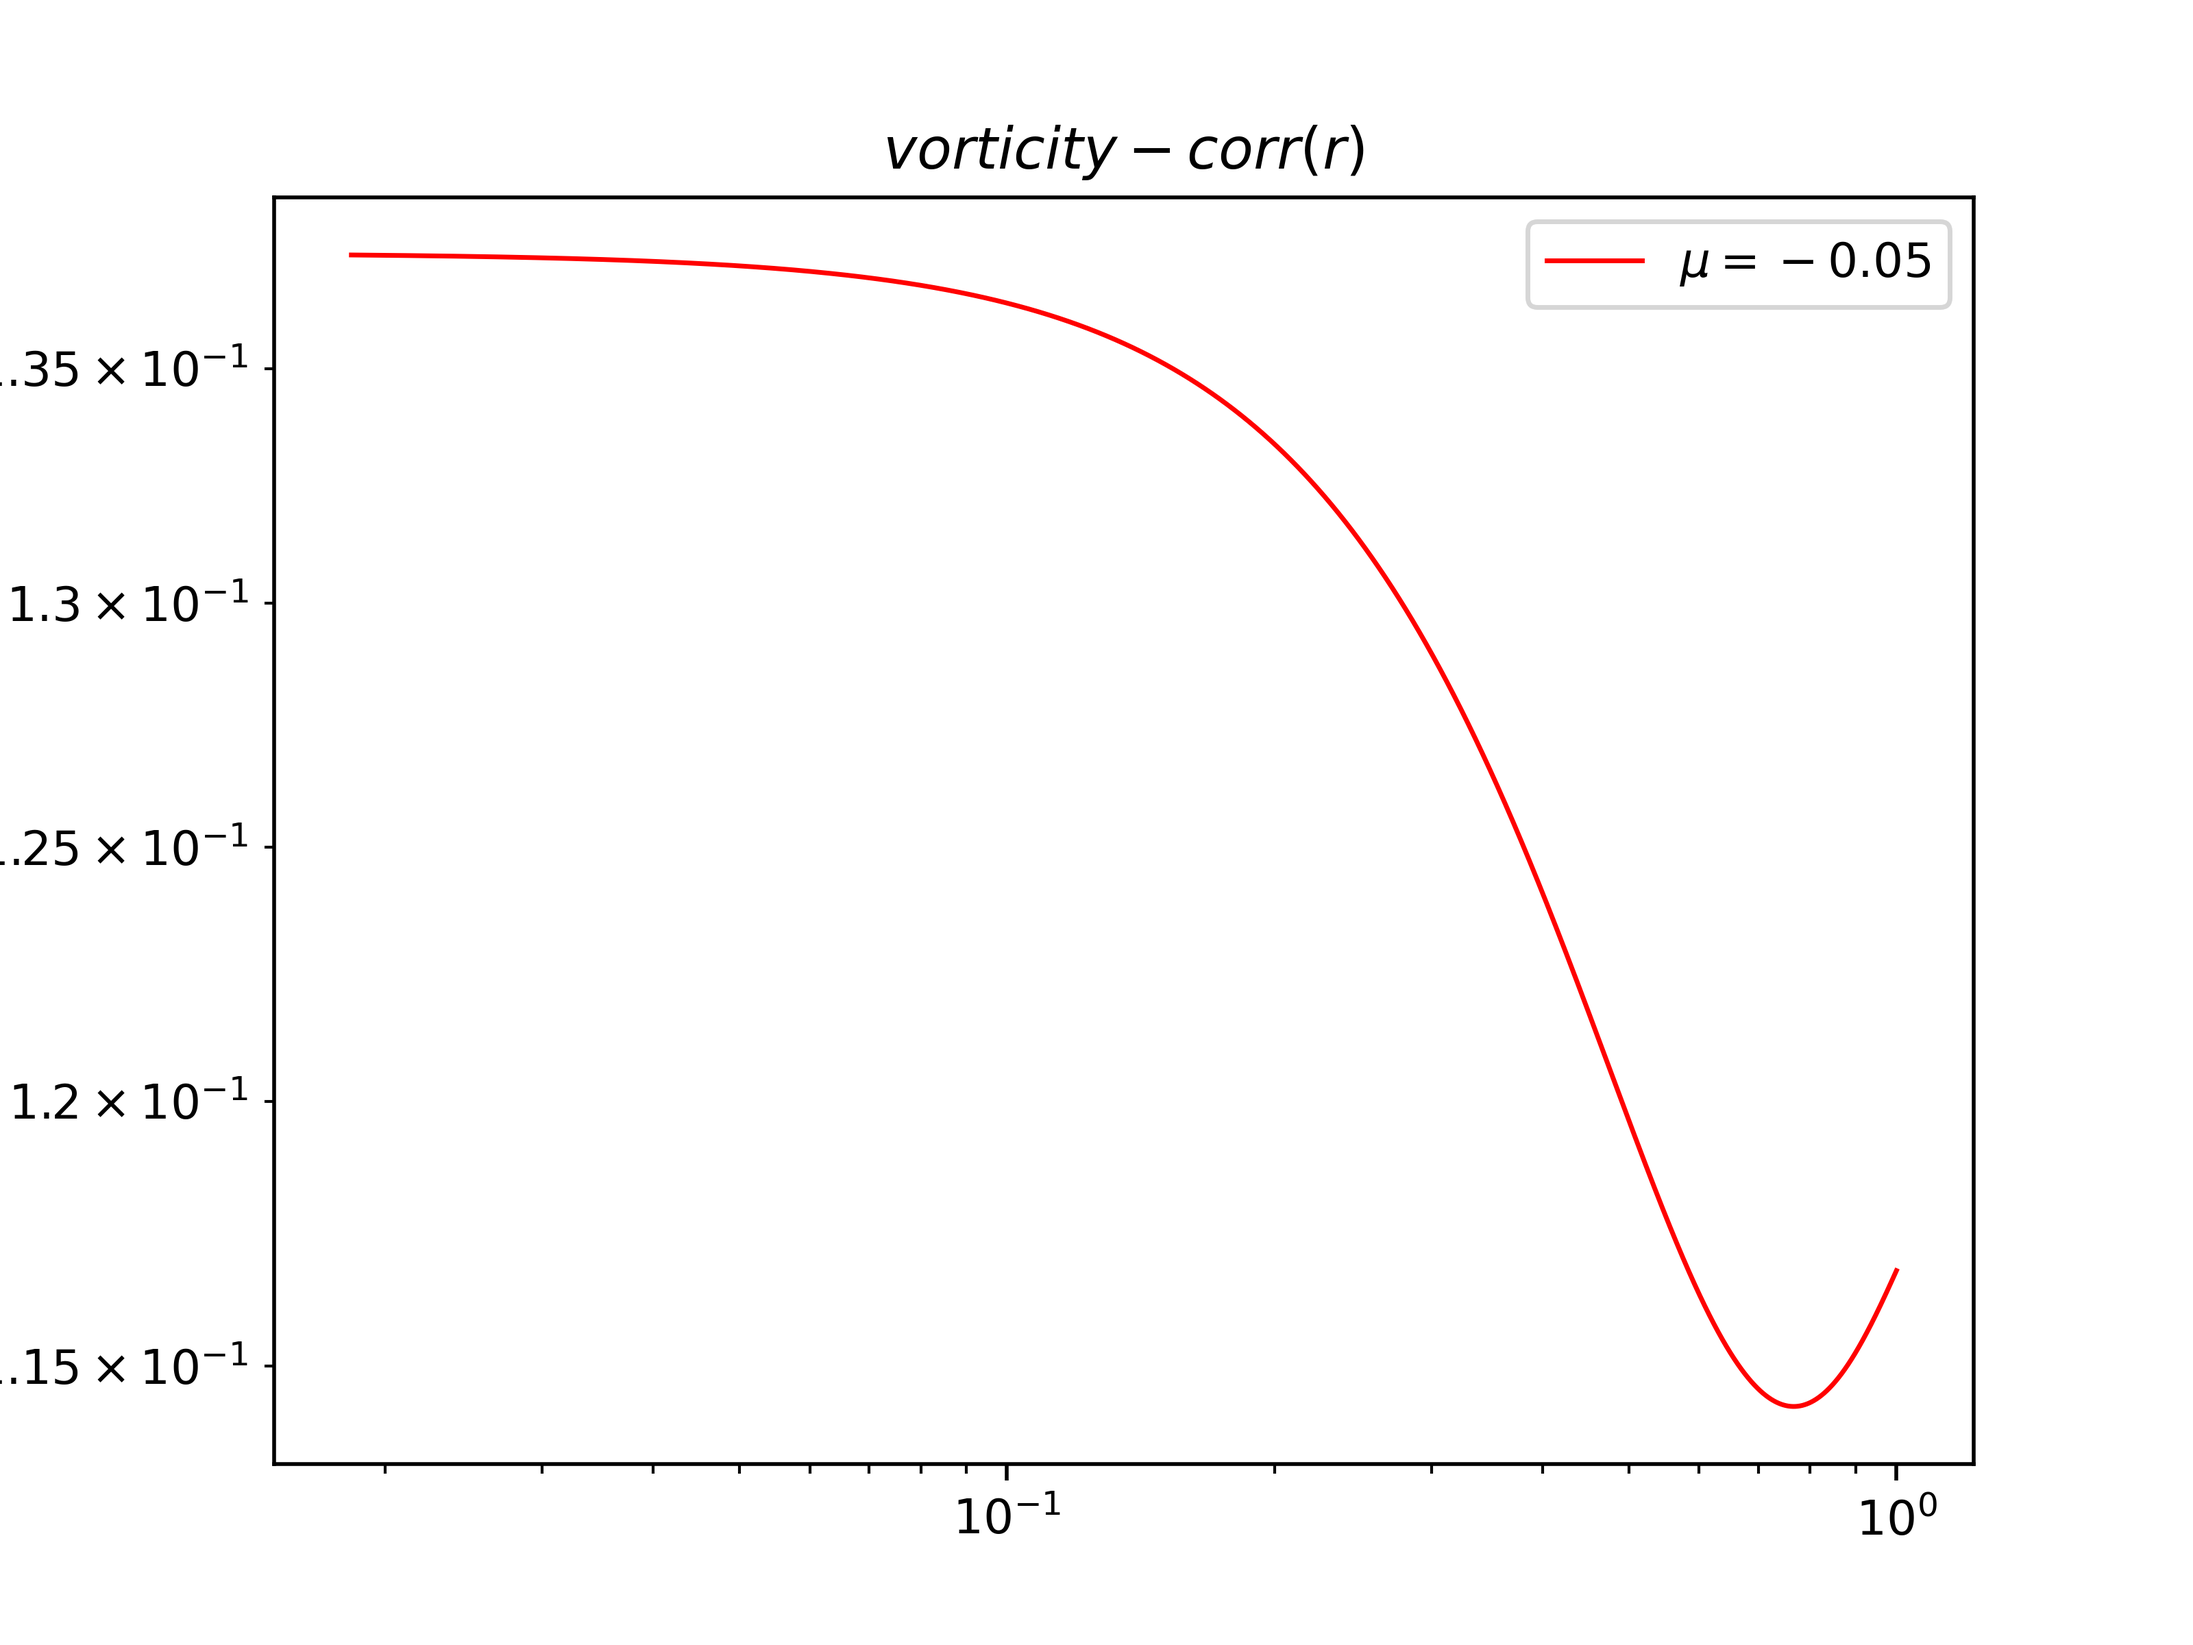
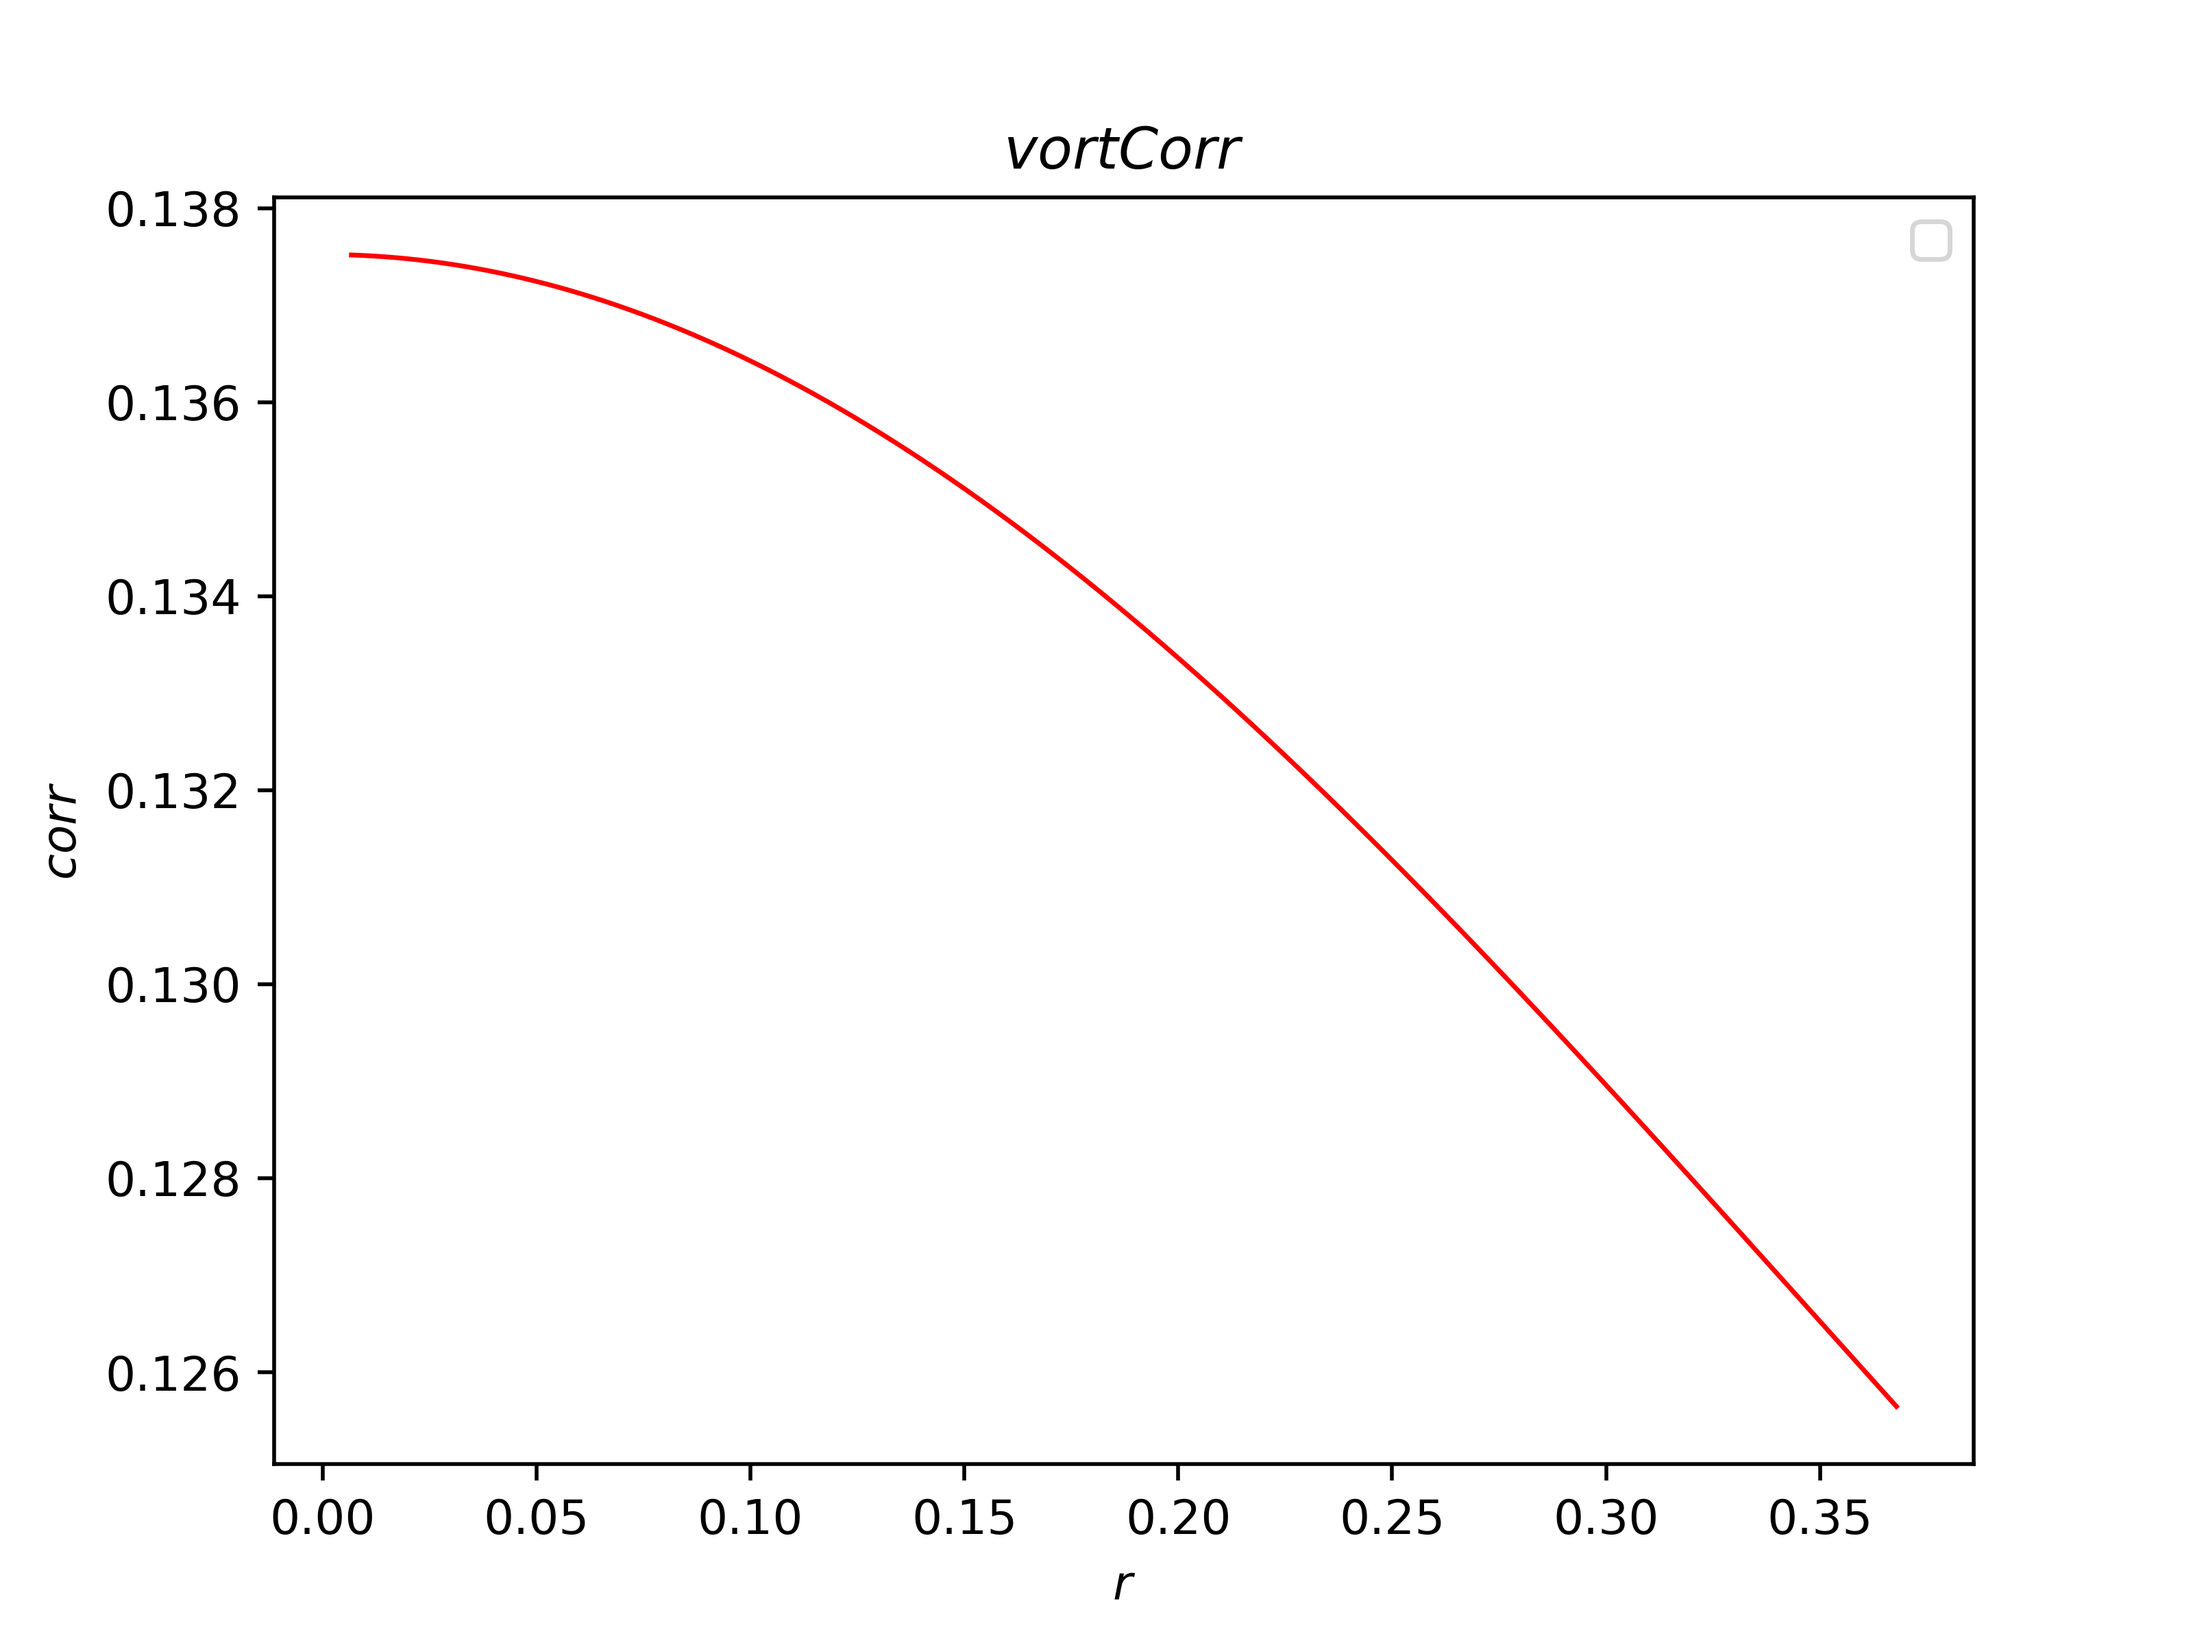
modified sim, added statistics of beta, fixed some bugs

diff --git a/plot.py b/plot.py
@@ -382,7 +382,7 @@ def test_PnlPlot(N=250):
     plot_monthly_return_distrib(times,pnl,plotpath= TMP_PLOT + 'mdist_test.png')
     plot_daily_return_underwater(times, pnl, plotpath=TMP_PLOT + 'mdd_test.png')
 
-def XYPlot(xy, plotpath,logx=False, logy=False, lims=None, title='XY',scatter=False, frac_last = 0.1):
+def XYPlot(xy, plotpath,logx=False, logy=False, lims=None, title='XY',scatter=False, frac_last = 0.1, x_label = 'x', y_label='y'):
     import matplotlib as mpl
     mpl.use('Agg')
     from matplotlib import pylab
@@ -395,7 +395,7 @@ def XYPlot(xy, plotpath,logx=False, logy=False, lims=None, title='XY',scatter=Fa
     x,y = (x[ord],y[ord])
     if scatter:
         plt.scatter(np.asarray(x), np.asarray(y))
-    elif logx:
+    elif logx and logy:
         N = int(len(x)*frac_last)
         l = np.log(x[-N:])
         t = np.log(y[-N:])
@@ -410,6 +410,8 @@ def XYPlot(xy, plotpath,logx=False, logy=False, lims=None, title='XY',scatter=Fa
     if not lims is None:
         plt.axis(lims)
     plt.title(r'$%s$'%title)
+    plt.xlabel(r'$%s$'%x_label)
+    plt.ylabel(r'$%s$'%y_label)
     pylab.legend(loc='upper right')
     pylab.savefig(plotpath, dpi=500)
     pylab.close()

diff --git a/VorticityCorrelation.py b/VorticityCorrelation.py
@@ -104,7 +104,7 @@ class FDPlotter():
             print(ex)
         self.dss = ConstSharedArray(data[0])
         self.OdotO = ConstSharedArray(data[1])
-        self.Rdata = ConstSharedArray(np.exp(np.linspace(-40, 0, R)))
+        self.Rdata = ConstSharedArray(np.exp(np.linspace(-5, -1, R)))
 
     def FDistributionPathname(self):
         return os.path.join(CorrFuncDir(self.M), "Fdata." + str(self.T) + ".np")
@@ -178,14 +178,15 @@ class FDPlotter():
         print("made parallel map corrdata " + str(M))
         plotpath = os.path.join(CorrFuncDir(M), "VortCorr.png")
         ok = corrdata > 0
-        XYPlot([self.Rdata[ok], corrdata[ok]], plotpath, logx=True, logy=True, title="vorticity-corr(r)")
+        XYPlot([self.Rdata[ok], corrdata[ok]], plotpath, logx=False, logy=False,
+               title="vortCorr",x_label='r',y_label='corr')
         print("made VortCorr " + str(M))
 
 
 def test_FDistribution():
     M = 100001
     T = 10000
-    R = 1000000
+    R = 100000
     with Timer("done FDistribution for M,T,R= " + str(M) + "," + str(T) + "," + str(R)):
         fdp = FDPlotter(M, T, R)
         fdp.MakePlots()
